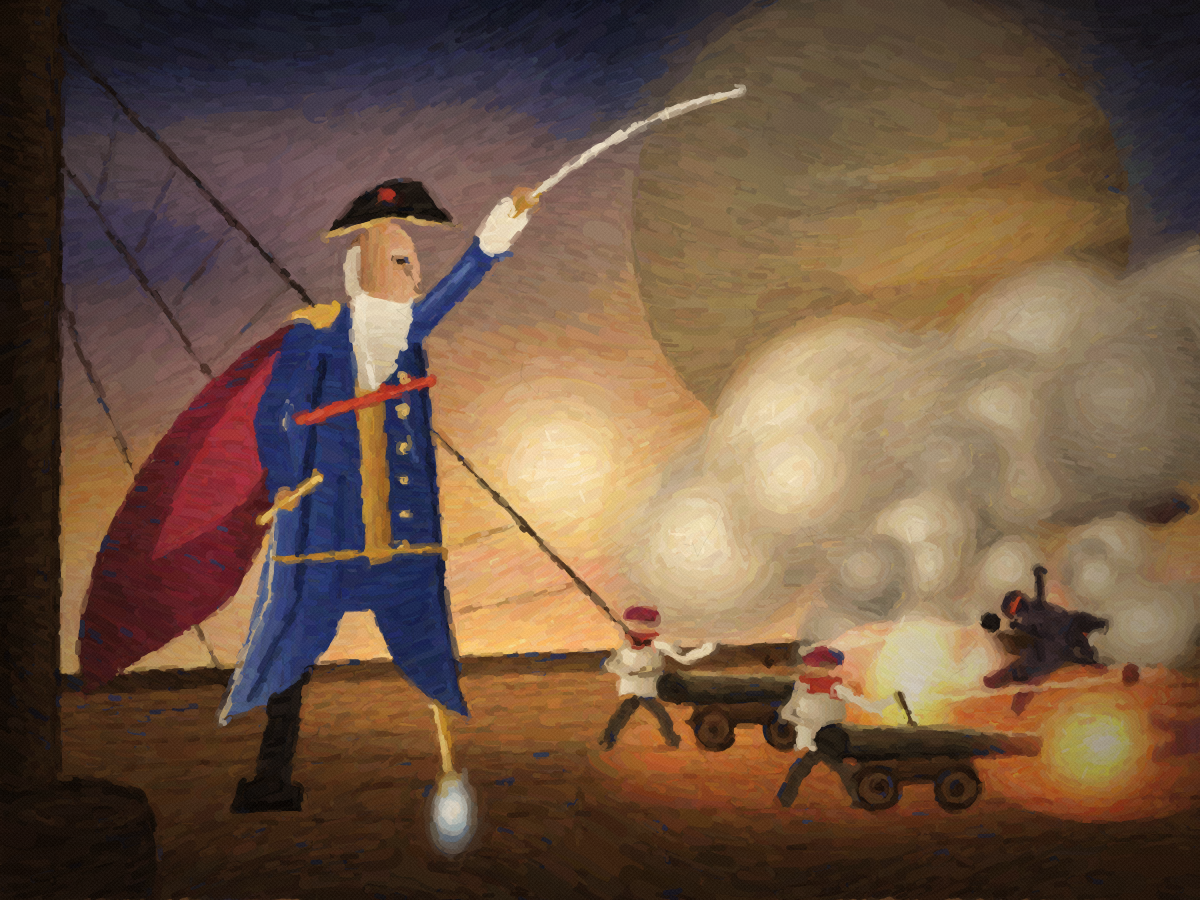
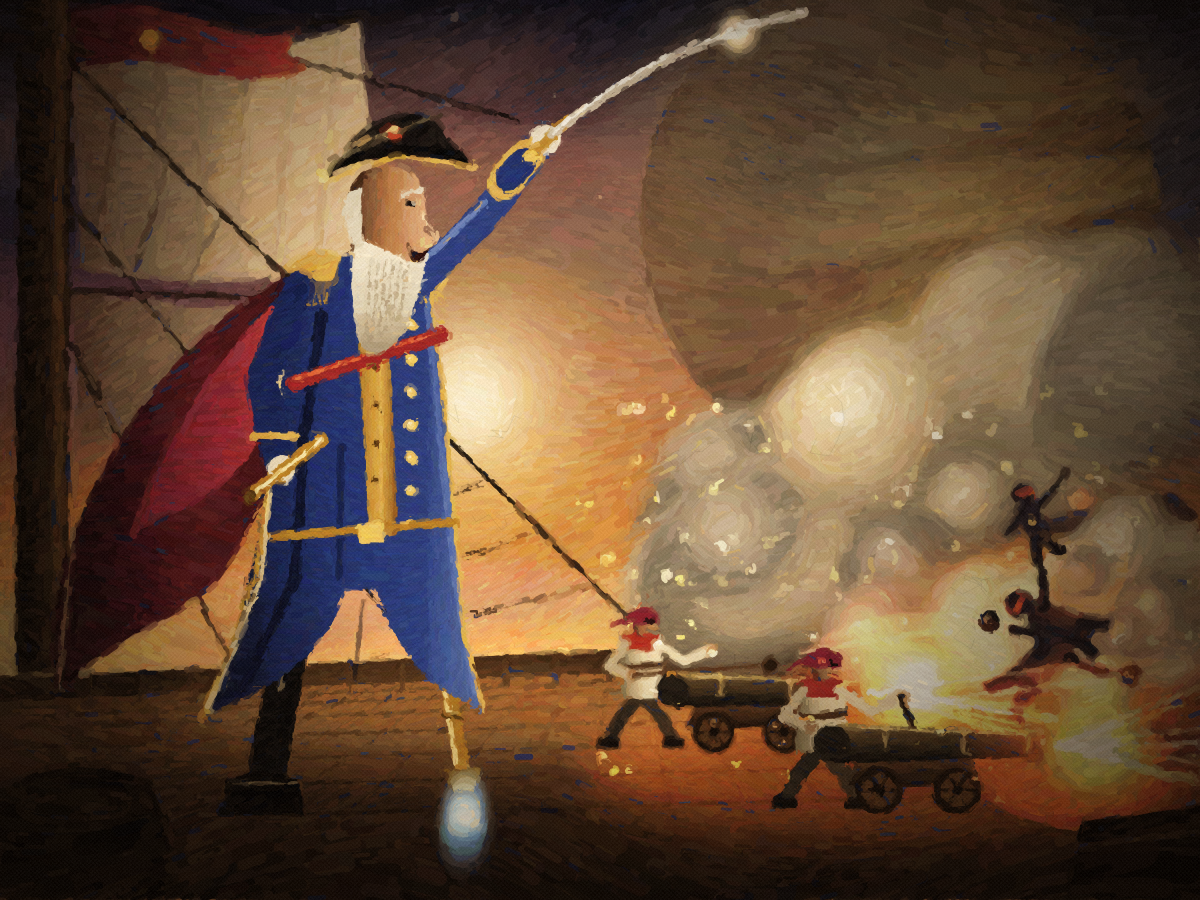
Amiral Remords painting: two refinement passes
Backlit halo, sails, torn flag, embers, darker edges; more detail on the
face, braid, epaulettes and gunners; fine strokes that follow the forms
on the focal areas; a gentle contrast curve in the varnish.

Claude-Session: https://claude.ai/code/session_01TggY2MHq5CRikNgJFkTdsd

diff --git a/games/battle-planet-zenzizenzix/docs/art/amiral-remords.html b/games/battle-planet-zenzizenzix/docs/art/amiral-remords.html
@@ -74,121 +74,161 @@ function scene() {
   const cv = document.createElement('canvas'); cv.width = W; cv.height = H; const g = cv.getContext('2d');
   const lin = (x0, y0, x1, y1, stops) => { const gr = g.createLinearGradient(x0, y0, x1, y1); stops.forEach(([o, c]) => gr.addColorStop(o, c)); return gr; };
   const rad = (x, y, r0, r1, stops) => { const gr = g.createRadialGradient(x, y, r0, x, y, r1); stops.forEach(([o, c]) => gr.addColorStop(o, c)); return gr; };
-  const path = (d) => new Path2D(d);
-  const fill = (d, f) => { g.fillStyle = f; g.fill(typeof d === 'string' ? path(d) : d); };
+  const fill = (d, f) => { g.fillStyle = f; g.fill(typeof d === 'string' ? new Path2D(d) : d); };
   const C = (x, y, r, f) => { g.beginPath(); g.arc(x, y, r, 0, Math.PI * 2); g.fillStyle = f; g.fill(); };
   const E = (x, y, rx, ry, f, rot = 0) => { g.beginPath(); g.ellipse(x, y, rx, ry, rot, 0, Math.PI * 2); g.fillStyle = f; g.fill(); };
   const line = (pts, w, col) => { g.beginPath(); pts.forEach(([x, y], i) => i ? g.lineTo(x, y) : g.moveTo(x, y)); g.strokeStyle = col; g.lineWidth = w; g.lineCap = 'round'; g.lineJoin = 'round'; g.stroke(); };
+  const curve = (x0, y0, cx, cy, x1, y1, w, col) => { g.beginPath(); g.moveTo(x0, y0); g.quadraticCurveTo(cx, cy, x1, y1); g.strokeStyle = col; g.lineWidth = w; g.lineCap = 'round'; g.stroke(); };
   const soft = (px, fn) => { g.save(); g.filter = `blur(${px}px)`; fn(); g.restore(); };
+  const glow = fn => { g.save(); g.globalCompositeOperation = 'lighter'; fn(); g.restore(); };
 
-  // --- sky
-  g.fillStyle = lin(0, 0, 0, 620, [[0, '#141b36'], [.3, '#2e3560'], [.58, '#7a5a68'], [.8, '#d29452'], [1, '#f0c47e']]); g.fillRect(0, 0, W, H);
-  soft(30, () => { for (let i = 0; i < 9; i++) E(rnd() * W, 120 + rnd() * 300, 220 + rnd() * 200, 30 + rnd() * 30, `rgba(${120 + rnd() * 60 | 0},${90 + rnd() * 40 | 0},${110 + rnd() * 30 | 0},.35)`, (rnd() - .5) * .3); });
-  // --- the giant planet, soft and hazy
-  soft(4, () => {
-    g.save(); g.beginPath(); g.arc(880, 230, 250, 0, Math.PI * 2); g.clip();
-    g.fillStyle = rad(820, 170, 20, 280, [[0, '#f4ddaa'], [.45, '#d9a660'], [.8, '#9a5a2a'], [1, '#4a2e1c']]); g.fillRect(600, -40, 560, 540);
-    [[80, 16, '#a8642a'], [140, 26, '#c8933a'], [196, 12, '#7a4422'], [250, 34, '#d9a85a'], [306, 18, '#6a3a1e'], [356, 28, '#a8703a'], [410, 18, '#7a4a28']].forEach(([y, h, c]) => { g.globalAlpha = .5; E(880, y, 300, h, c, -.14); });
-    g.globalAlpha = .75; E(800, 300, 52, 22, '#8a3a22', -.14); g.globalAlpha = 1;
-    g.fillStyle = rad(1040, 330, 80, 320, [[0, 'rgba(20,27,54,0)'], [1, 'rgba(20,27,54,.8)']]); g.fillRect(600, -40, 560, 540); g.restore();
+  // --- sky: deep night above, a burning horizon
+  g.fillStyle = lin(0, 0, 0, 640, [[0, '#0c1028'], [.28, '#232a52'], [.55, '#6a4660'], [.78, '#c87a42'], [1, '#f0b86a']]); g.fillRect(0, 0, W, H);
+  soft(26, () => { for (let i = 0; i < 12; i++) E(rnd() * W, 90 + rnd() * 330, 200 + rnd() * 240, 24 + rnd() * 30, `rgba(${110 + rnd() * 70 | 0},${70 + rnd() * 50 | 0},${90 + rnd() * 40 | 0},.4)`, (rnd() - .5) * .25); });
+  for (let i = 0; i < 90; i++) C(rnd() * W, rnd() * 200, rnd() * 1.4 + .3, `rgba(239,230,210,${.25 + rnd() * .5})`);
+  // --- the giant planet
+  soft(3, () => {
+    g.save(); g.beginPath(); g.arc(900, 220, 260, 0, Math.PI * 2); g.clip();
+    g.fillStyle = rad(820, 150, 20, 300, [[0, '#f6e0ae'], [.4, '#dca862'], [.78, '#9a562a'], [1, '#3a2216']]); g.fillRect(600, -60, 600, 560);
+    [[60, 14, '#a8642a'], [112, 26, '#c8933a'], [160, 10, '#6a3a1e'], [210, 34, '#e0b066'], [262, 16, '#6a3a1e'], [312, 30, '#a8703a'], [366, 14, '#7a4a28'], [410, 24, '#9a5a2e']].forEach(([y, h, c]) => { g.globalAlpha = .55; E(900, y, 320, h, c, -.14); g.globalAlpha = .25; E(900, y + h * .7, 320, h * .3, '#f6e0ae', -.14); });
+    g.globalAlpha = .8; E(812, 290, 56, 22, '#8a3020', -.14); E(806, 286, 30, 10, '#c8603a', -.14); g.globalAlpha = 1;
+    g.fillStyle = rad(1080, 320, 80, 340, [[0, 'rgba(12,16,40,0)'], [1, 'rgba(12,16,40,.85)']]); g.fillRect(600, -60, 600, 560); g.restore();
   });
-  soft(40, () => { g.globalAlpha = .35; C(880, 230, 270, '#e8c27a'); g.globalAlpha = 1; });
-  // --- the star, low behind the smoke: the main light
-  soft(10, () => { g.fillStyle = rad(560, 470, 0, 420, [[0, 'rgba(255,248,222,1)'], [.08, 'rgba(255,236,190,.95)'], [.3, 'rgba(236,180,100,.5)'], [1, 'rgba(236,180,100,0)']]); g.fillRect(100, 60, 920, 820); });
+  soft(36, () => { g.globalAlpha = .3; C(900, 220, 290, '#e8c27a'); g.globalAlpha = 1; });
+  // --- the star, right behind the Admiral: a halo
+  soft(8, () => { g.fillStyle = rad(470, 400, 0, 460, [[0, 'rgba(255,250,230,1)'], [.06, 'rgba(255,242,205,1)'], [.22, 'rgba(244,196,120,.7)'], [.55, 'rgba(210,130,70,.25)'], [1, 'rgba(210,130,70,0)']]); g.fillRect(0, 0, 940, 860); });
   // --- cloud sea far below
-  soft(8, () => { for (let i = 0; i < 46; i++) E(rnd() * W, 580 + rnd() * 70, 70 + rnd() * 140, 16 + rnd() * 22, `rgba(${215 + rnd() * 30 | 0},${160 + rnd() * 40 | 0},${110 + rnd() * 30 | 0},.6)`); });
-  // --- the enemy flagship, far off, through haze
-  soft(2, () => { fill('M960 520 L1170 486 L1196 506 L1166 526 Z', '#3a2228'); for (let i = 0; i < 7; i++) C(990 + i * 26, 516 - i * 3.5, 2.4, '#e0502a'); });
+  soft(7, () => { for (let i = 0; i < 50; i++) E(rnd() * W, 584 + rnd() * 70, 70 + rnd() * 150, 14 + rnd() * 22, `rgba(${220 + rnd() * 30 | 0},${150 + rnd() * 50 | 0},${100 + rnd() * 30 | 0},.6)`); });
+  // --- the enemy flagship and a second ship, far off
+  soft(2, () => { fill('M940 532 L1170 494 L1198 514 L1166 536 Z', '#3a2026'); for (let i = 0; i < 8; i++) C(968 + i * 25, 527 - i * 3.6, 2.4, '#ff5a2a');
+    fill('M1060 568 L1150 556 L1160 566 L1148 574 Z', '#4a2a2e'); });
 
-  // --- deck, with warm light from the flashes
-  fill('M0 690 L1200 640 L1200 900 L0 900 Z', lin(0, 640, 0, 900, [[0, '#8a5a32'], [.4, '#6a4224'], [1, '#2e1c10']]));
-  for (let i = 0; i < 12; i++) { const y = 700 + i * i * 2.4 + i * 6; line([[0, y + 8], [W, y - 44 + i * 3]], 2, 'rgba(36,20,10,.55)'); }
-  for (let i = 0; i < 16; i++) { const x = -200 + i * 110; line([[600 + (x - 600) * .25, 655], [x, 900]], 1.5, 'rgba(36,20,10,.35)'); }
-  fill('M0 676 L1200 624 L1200 646 L0 698 Z', '#3a2414');
-  // light pools on the deck
-  g.globalCompositeOperation = 'lighter';
-  soft(20, () => { E(860, 760, 260, 60, 'rgba(200,90,30,.45)'); E(560, 700, 300, 50, 'rgba(230,170,90,.25)'); });
-  g.globalCompositeOperation = 'source-over';
+  // --- sails, backlit, upper left
+  soft(1.5, () => {
+    fill('M70 30 Q300 60 360 20 L380 250 Q260 300 80 270 Z', lin(70, 0, 380, 0, [[0, 'rgba(120,90,70,.9)'], [.6, 'rgba(236,206,160,.9)'], [1, 'rgba(250,226,180,.85)']]));
+    fill('M70 290 Q240 320 300 300 L310 420 Q200 452 80 440 Z', lin(70, 0, 310, 0, [[0, 'rgba(110,80,60,.9)'], [1, 'rgba(240,210,160,.85)']]));
+    line([[70, 30], [380, 20]], 6, '#2a1a0e'); line([[70, 290], [310, 300]], 5, '#2a1a0e');
+    for (let i = 0; i < 6; i++) line([[110 + i * 45, 40], [116 + i * 40, 262]], 1.5, 'rgba(90,60,40,.35)');
+  });
+  // --- mast, rigging and a torn flag
+  fill('M18 0 L72 0 L66 900 L14 900 Z', lin(14, 0, 72, 0, [[0, '#0c0804'], [.6, '#3a2414'], [.8, '#6a4426'], [1, '#1a1008']]));
+  line([[68, 60], [660, 650]], 4, 'rgba(22,14,6,.9)'); line([[68, 200], [440, 686]], 3, 'rgba(22,14,6,.85)'); line([[68, 340], [250, 700]], 3, 'rgba(22,14,6,.8)'); line([[68, 0], [520, 120]], 3, 'rgba(22,14,6,.8)');
+  for (let i = 0; i < 10; i++) { const t = .08 + i * .09; line([[68 + 592 * t, 60 + 590 * t], [68 + 372 * t, 200 + 486 * t]], 1.6, 'rgba(22,14,6,.65)'); }
+  soft(.8, () => { fill('M72 8 Q140 -4 200 20 Q260 44 300 30 L286 52 L306 70 Q250 88 196 70 Q140 52 72 70 Z', lin(72, 0, 300, 0, [[0, '#4a1018'], [.5, '#8a2a32'], [1, '#c8503a']])); C(150, 40, 10, '#d9a64a'); });
 
-  // --- cannon smoke: soft billows, backlit
-  const billow = (x, y, r, lit) => { g.fillStyle = rad(x - r * .35, y - r * .4, r * .05, r * 1.05, [[0, lit ? 'rgba(252,238,206,1)' : 'rgba(214,200,176,1)'], [.55, lit ? 'rgba(206,186,150,.95)' : 'rgba(150,138,122,.9)'], [1, 'rgba(120,104,90,0)']]); g.beginPath(); g.arc(x, y, r, 0, Math.PI * 2); g.fill(); };
-  soft(10, () => { for (let i = 0; i < 40; i++) { const t = rnd(); billow(700 + t * 520 + (rnd() - .5) * 80, 560 - t * 170 + (rnd() - .5) * 120, 60 + rnd() * 90, rnd() > .35); } });
-  soft(4, () => { for (let i = 0; i < 18; i++) billow(860 + rnd() * 340, 560 + rnd() * 120, 30 + rnd() * 50, rnd() > .3); });
+  // --- deck, rail, light pools
+  fill('M0 690 L1200 640 L1200 900 L0 900 Z', lin(0, 640, 0, 900, [[0, '#7a4e2a'], [.35, '#5a3820'], [1, '#1e120a']]));
+  for (let i = 0; i < 13; i++) { const y = 700 + i * i * 2.2 + i * 6; line([[0, y + 8], [W, y - 44 + i * 3]], 2, 'rgba(30,18,8,.55)'); }
+  for (let i = 0; i < 18; i++) { const x = -300 + i * 110; line([[620 + (x - 620) * .25, 652], [x, 900]], 1.5, 'rgba(30,18,8,.35)'); }
+  fill('M0 676 L1200 624 L1200 648 L0 700 Z', '#2e1c10'); line([[0, 676], [1200, 624]], 2.5, 'rgba(250,210,140,.6)');
+  for (let i = 0; i < 22; i++) { const x = 90 + i * 52; line([[x, 678 - x * .043], [x, 700 - x * .043 + 6]], 6, '#3a2414'); }
+  glow(() => soft(24, () => { E(880, 770, 300, 70, 'rgba(210,90,30,.5)'); E(470, 712, 320, 50, 'rgba(240,180,100,.3)'); }));
 
-  // --- Villen-Hüüs's soldiers, blown back in the smoke
-  const goon = (x, y, rot, s) => { g.save(); g.translate(x, y); g.rotate(rot); g.scale(s, s);
-    fill('M-14 -40 L-26 0 L-12 0 L0 -26 L12 0 L26 0 L14 -40 Z', '#2a2228'); fill('M-18 -86 Q0 -96 18 -86 L16 -38 L-16 -38 Z', '#3a3040'); C(2, -102, 15, '#2a2230');
-    g.fillStyle = '#ff5a2a'; g.fillRect(-8, -106, 22, 6); line([[14, -76], [46, -92]], 9, '#2a2228'); line([[-14, -76], [-42, -58]], 9, '#2a2228'); g.restore(); };
-  soft(1.5, () => { goon(1000, 700, .8, 1.05); goon(1100, 640, -1.2, .9); goon(1150, 740, 1.5, 1); });
-  // cannonball streaks
-  [[800, 650, 990, 622], [930, 700, 1130, 676]].forEach(([a, b, c, d]) => { line([[a, b], [c, d]], 5, 'rgba(255,236,190,.5)'); C(c, d, 10, '#1e1a18'); });
+  // --- cannon smoke
+  const billow = (x, y, r, lit) => { g.fillStyle = rad(x - r * .35, y - r * .4, r * .05, r * 1.05, [[0, lit ? 'rgba(254,240,210,1)' : 'rgba(206,190,166,1)'], [.55, lit ? 'rgba(210,186,146,.95)' : 'rgba(136,124,110,.9)'], [1, 'rgba(110,94,80,0)']]); g.beginPath(); g.arc(x, y, r, 0, Math.PI * 2); g.fill(); };
+  soft(9, () => { for (let i = 0; i < 46; i++) { const t = rnd(); billow(700 + t * 520 + (rnd() - .5) * 80, 570 - t * 190 + (rnd() - .5) * 130, 60 + rnd() * 95, rnd() > .4); } });
+  soft(4, () => { for (let i = 0; i < 22; i++) billow(860 + rnd() * 340, 560 + rnd() * 130, 30 + rnd() * 50, rnd() > .35); });
+  glow(() => soft(16, () => { E(1000, 640, 180, 90, 'rgba(230,110,40,.35)'); }));
 
-  // --- cannons and gunners (mid-ground, right of the admiral)
+  // --- Villen-Hüüs's soldiers, blown back
+  const goon = (x, y, rot, s, lit) => { g.save(); g.translate(x, y); g.rotate(rot); g.scale(s, s);
+    fill('M-14 -40 L-26 0 L-12 0 L0 -26 L12 0 L26 0 L14 -40 Z', '#241c22'); fill('M-18 -86 Q0 -96 18 -86 L16 -38 L-16 -38 Z', lit ? lin(-18, 0, 18, 0, [[0, '#2a2230'], [1, '#8a4a3a']]) : '#342a3a'); C(2, -102, 15, '#241c28');
+    line([[14, -76], [46, -92]], 9, '#241c22'); line([[-14, -76], [-42, -58]], 9, '#241c22'); line([[46, -92], [70, -110]], 5, '#151015');
+    g.fillStyle = '#ff6a3a'; g.fillRect(-8, -106, 22, 6); g.restore(); };
+  soft(1.4, () => { goon(1000, 704, .8, 1.05, 1); goon(1104, 640, -1.2, .9, 1); goon(1156, 748, 1.5, 1); goon(1050, 560, -.4, .7); });
+  glow(() => { [[1006, 616], [1150, 600], [1106, 742], [1080, 500]].forEach(([x, y]) => soft(4, () => C(x, y, 8, 'rgba(255,90,40,.7)'))); });
+  // cannonballs
+  [[800, 652, 990, 622], [930, 702, 1130, 676]].forEach(([a, b, c, d]) => { line([[a, b], [c, d]], 5, 'rgba(255,236,190,.5)'); C(c, d, 10, '#1e1a18'); C(c - 3, d - 3, 3, 'rgba(255,220,160,.6)'); });
+
+  // --- cannons and gunners, lit by their own flashes
   const cannon = (x, y, s) => { g.save(); g.translate(x, y); g.scale(s, s);
-    fill('M-74 32 L46 32 L36 0 L-62 0 Z', lin(0, 0, 0, 32, [[0, '#6a4426'], [1, '#2e1c10']]));
-    [[-46, 36], [24, 36]].forEach(([cx, cy]) => { C(cx, cy, 21, '#2e1c10'); C(cx, cy, 15, '#5a3a22'); C(cx, cy, 6, '#2e1c10'); });
-    fill('M-84 -24 Q-90 -6 -84 12 L100 6 L100 -14 Z', lin(0, -24, 0, 12, [[0, '#b0905a'], [.25, '#5a4a32'], [1, '#14100c']]));
-    C(-88, -6, 16, '#2a2218'); line([[-66, -20], [96, -13]], 2.5, 'rgba(246,220,150,.7)');
-    g.globalCompositeOperation = 'lighter';
-    g.fillStyle = rad(150, -4, 0, 120, [[0, 'rgba(255,250,220,1)'], [.18, 'rgba(250,200,90,.95)'], [.5, 'rgba(210,70,30,.6)'], [1, 'rgba(200,64,42,0)']]); g.beginPath(); g.ellipse(160, -4, 130, 70, 0, 0, Math.PI * 2); g.fill();
-    g.globalCompositeOperation = 'source-over'; g.restore(); };
-  const gunner = (x, y, s, pose) => { g.save(); g.translate(x, y); g.scale(s, s);
-    line([[0, -52], [-22, -24], [-34, 0]], 15, '#3a3024'); line([[0, -52], [24, -26], [36, 0]], 15, '#4a3c2c');
-    fill('M-20 -116 Q2 -122 22 -116 L26 -50 Q0 -44 -24 -50 Z', lin(-20, 0, 26, 0, [[0, '#f0e4c8'], [1, '#9a8a6a']]));
-    fill('M-20 -116 Q2 -122 22 -116 L16 -100 L-14 -100 Z', '#a8382a');
-    line([[18, -106], [48, -88], [76, -100]], 11, '#e6d8b8'); line([[-16, -106], [-34, -82], [-8, -72]], 11, '#bfae8e');
-    C(4, -132, 15, '#c08a62'); fill('M-16 -138 Q2 -152 20 -140 L20 -128 L-18 -128 Z', '#8a2a3a'); E(14, -130, 3, 2, '#2a1a10');
-    if (pose === 'linstock') { line([[76, -100], [104, -40]], 4.5, '#3a2414'); g.globalCompositeOperation = 'lighter'; C(106, -38, 8, 'rgba(255,170,80,.9)'); g.globalCompositeOperation = 'source-over'; }
-    else { line([[-8, -72], [140, -84]], 5, '#6a4426'); C(142, -84, 7, '#3a2414'); }
+    fill('M-74 32 L46 32 L36 0 L-62 0 Z', lin(0, 0, 0, 32, [[0, '#7a5030'], [1, '#2e1c10']]));
+    [[-46, 36], [24, 36]].forEach(([cx, cy]) => { C(cx, cy, 21, '#2a1a0e'); C(cx, cy, 15, '#6a4426'); for (let k = 0; k < 6; k++) { const a = k * Math.PI / 3; line([[cx, cy], [cx + Math.cos(a) * 14, cy + Math.sin(a) * 14]], 2.5, '#2a1a0e'); } C(cx, cy, 5, '#1a100a'); });
+    fill('M-84 -24 Q-90 -6 -84 12 L100 6 L100 -14 Z', lin(0, -24, 0, 12, [[0, '#d0aa66'], [.22, '#6a5434'], [1, '#14100c']]));
+    [[-40, -22, 10], [30, -17, 9], [86, -14, 8]].forEach(([bx, by, bh]) => line([[bx, by], [bx, by + bh * 2]], 4, 'rgba(250,210,130,.6)'));
+    C(-88, -6, 16, '#2a2218'); line([[-66, -20], [96, -13]], 2.5, 'rgba(250,224,150,.75)');
+    glow(() => { g.fillStyle = rad(150, -4, 0, 130, [[0, 'rgba(255,252,230,1)'], [.15, 'rgba(255,214,110,1)'], [.45, 'rgba(220,80,30,.7)'], [1, 'rgba(200,64,42,0)']]); g.beginPath(); g.ellipse(170, -4, 150, 80, 0, 0, Math.PI * 2); g.fill();
+      for (let k = 0; k < 9; k++) { const a = (rnd() - .5) * 1.2; line([[110, -4], [110 + Math.cos(a) * (120 + rnd() * 80), -4 + Math.sin(a) * (60 + rnd() * 50)]], 2, 'rgba(255,220,140,.7)'); } });
     g.restore(); };
-  soft(1, () => { gunner(640, 740, .92, 'rod'); cannon(760, 694, 1.0); });
-  soft(.5, () => { gunner(820, 800, 1.05, 'linstock'); cannon(930, 748, 1.12); });
+  const gunner = (x, y, s, pose) => { g.save(); g.translate(x, y); g.scale(s, s);
+    line([[0, -52], [-22, -24], [-34, 0]], 15, '#3a3024'); line([[0, -52], [24, -26], [36, 0]], 15, '#4a3c2c'); fill('M-44 -4 L-22 -4 L-22 6 L-46 6 Z', '#1a120c'); fill('M26 -4 L48 -4 L48 6 L24 6 Z', '#1a120c');
+    fill('M-20 -116 Q2 -122 22 -116 L26 -50 Q0 -44 -24 -50 Z', lin(-20, 0, 26, 0, [[0, '#8a7a5a'], [.5, '#e6d6b2'], [1, '#fff0cc']]));
+    line([[-18, -80], [22, -84]], 7, '#5a3a22');
+    fill('M-20 -116 Q2 -122 22 -116 L16 -100 L-14 -100 Z', '#b03a2a');
+    line([[18, -106], [48, -88], [76, -100]], 11, '#f0e0bc'); line([[-16, -106], [-34, -82], [-8, -72]], 11, '#bfae8e'); C(78, -100, 6, '#d09a6a'); C(-8, -72, 6, '#b08058');
+    C(4, -132, 15, lin(-10, 0, 20, 0, [[0, '#7a4a30'], [1, '#e0a878']])); fill('M-16 -138 Q2 -152 20 -140 L20 -128 L-18 -128 Z', '#8a2a3a'); line([[-16, -134], [-30, -126]], 4, '#8a2a3a');
+    E(14, -131, 2.6, 2, '#1a100a'); line([[8, -122], [18, -121]], 2, 'rgba(60,30,20,.7)'); line([[-6, -122], [-2, -118]], 6, 'rgba(60,40,30,.5)');
+    if (pose === 'linstock') { line([[76, -100], [104, -40]], 4.5, '#3a2414'); glow(() => soft(3, () => C(106, -38, 9, 'rgba(255,170,80,1)'))); }
+    else { line([[-8, -72], [140, -84]], 5, '#6a4426'); C(142, -84, 8, '#3a2414'); }
+    g.restore(); };
+  soft(.8, () => { gunner(640, 742, .92, 'rod'); cannon(760, 696, 1.0); });
+  soft(.4, () => { gunner(820, 802, 1.05, 'linstock'); cannon(930, 750, 1.12); });
 
-  // --- mast and rigging framing the left side
-  fill('M0 0 L64 0 L58 900 L0 900 Z', lin(0, 0, 64, 0, [[0, '#140c06'], [.7, '#3a2414'], [1, '#1e1208']]));
-  line([[60, 40], [640, 646]], 4, 'rgba(26,16,8,.85)'); line([[60, 160], [420, 680]], 3, 'rgba(26,16,8,.8)'); line([[60, 300], [230, 700]], 3, 'rgba(26,16,8,.75)');
-  for (let i = 0; i < 9; i++) { const t = .1 + i * .1; line([[60 + 580 * t, 40 + 606 * t], [60 + 360 * t, 160 + 520 * t]], 1.5, 'rgba(26,16,8,.6)'); }
-  fill('M0 800 Q60 760 140 790 Q170 840 150 900 L0 900 Z', '#1a100a'); E(80, 812, 64, 16, '#2e1c10'); E(80, 812, 40, 9, '#1a100a');
-  // --- the Admiral, foreground, lit from behind (rim light) and from the flashes
-  const coatG = lin(250, 0, 470, 0, [[0, '#556aa8'], [.25, '#2a3a7a'], [.7, '#1c2856'], [1, '#2e3a6a']]);
-  // cape flying back to the left
-  fill('M300 318 C220 360 150 430 96 560 C80 610 70 660 84 700 C140 650 190 640 230 600 C270 540 300 460 318 360 Z', lin(90, 0, 320, 0, [[0, '#4a1620'], [.5, '#7a2232'], [1, '#3a1018']]));
-  fill('M302 330 C240 380 186 450 150 560 C190 540 236 520 262 480 Z', '#a8343e');
-  // back leg (boot)
-  line([[318, 560], [292, 670], [270, 790]], 34, '#1a1614'); fill('M240 782 Q270 772 300 784 L304 812 L232 812 Z', '#100c0a');
-  // peg leg: brass rocket, forward
-  line([[372, 560], [430, 655]], 32, '#1c2856'); line([[430, 655], [450, 772]], 13, '#b8862e'); line([[428, 655], [446, 768]], 4, '#f2d58a');
-  fill('M436 772 L466 772 L460 790 L442 790 Z', '#8a6420');
-  g.globalCompositeOperation = 'lighter'; soft(6, () => { g.fillStyle = rad(452, 812, 0, 50, [[0, 'rgba(240,250,255,1)'], [.35, 'rgba(110,180,232,.9)'], [1, 'rgba(60,100,170,0)']]); g.beginPath(); g.ellipse(452, 818, 18, 46, .05, 0, Math.PI * 2); g.fill(); }); g.globalCompositeOperation = 'source-over';
-  // coat with tails flaring
+  // --- foreground: a coil of rope and a powder barrel, almost black
+  fill('M0 790 Q70 748 150 780 Q180 838 160 900 L0 900 Z', '#140c06'); E(84, 806, 66, 16, '#2a1a0e'); E(84, 806, 44, 10, '#140c06'); E(84, 806, 22, 5, '#2a1a0e');
+  fill('M1080 820 L1200 806 L1200 900 L1070 900 Z', '#120a06'); line([[1080, 846], [1200, 832]], 4, 'rgba(200,140,80,.35)');
+
+  // --- the Admiral (scaled up for presence)
+  g.save(); g.translate(330, 812); g.scale(1.1, 1.1); g.translate(-330, -812);
+  const coatG = lin(250, 0, 470, 0, [[0, '#18204a'], [.35, '#2a3a7a'], [.75, '#3a4c90'], [1, '#6a7cb8']]);
+  // cape
+  fill('M300 318 C220 360 150 430 96 560 C80 610 70 660 84 700 C140 650 190 640 230 600 C270 540 300 460 318 360 Z', lin(90, 0, 320, 0, [[0, '#2a0a10'], [.5, '#6a1a28'], [1, '#3a1018']]));
+  fill('M302 330 C240 380 186 450 150 560 C190 540 236 520 262 480 Z', lin(150, 0, 300, 0, [[0, '#7a2232'], [1, '#c8484a']]));
+  line([[96, 560], [84, 700]], 3, 'rgba(255,210,150,.6)');
+  // legs
+  line([[318, 560], [292, 670], [270, 790]], 34, '#14100e'); line([[306, 600], [284, 700]], 4, 'rgba(255,220,160,.45)');
+  fill('M238 782 Q270 770 302 784 L306 814 L230 814 Z', '#0c0806'); line([[240, 786], [300, 786]], 2, 'rgba(255,220,160,.5)');
+  line([[372, 560], [430, 655]], 32, '#1c2856');
+  line([[430, 655], [450, 772]], 14, '#b8862e'); line([[426, 655], [445, 768]], 4, '#f8e09a'); [[436, 690], [442, 724]].forEach(([x, y]) => line([[x - 8, y], [x + 8, y + 2]], 4, '#6a4a18'));
+  fill('M434 772 L468 772 L462 792 L440 792 Z', '#8a6420');
+  glow(() => soft(5, () => { g.fillStyle = rad(452, 816, 0, 56, [[0, 'rgba(245,252,255,1)'], [.3, 'rgba(120,190,240,.95)'], [1, 'rgba(60,100,170,0)']]); g.beginPath(); g.ellipse(452, 824, 20, 54, .05, 0, Math.PI * 2); g.fill(); }));
+  // coat
   fill('M296 316 C330 304 380 300 418 314 C430 380 436 450 442 530 C446 600 452 660 470 720 C430 700 398 690 372 610 L344 610 C322 680 270 700 214 726 C246 650 262 590 272 520 C278 450 284 380 296 316 Z', coatG);
-  // folds and shadow on the coat
-  line([[322, 360], [306, 470], [298, 600], [250, 700]], 9, 'rgba(10,14,40,.55)'); line([[418, 340], [430, 470], [444, 600], [462, 700]], 7, 'rgba(10,14,40,.5)'); line([[340, 480], [338, 600]], 5, 'rgba(10,14,40,.4)'); line([[396, 330], [414, 460]], 4, 'rgba(140,160,220,.35)');
-  // waistcoat and gold
-  fill('M352 318 L380 316 L392 560 L366 566 Z', lin(352, 0, 392, 0, [[0, '#d9a64a'], [1, '#8a5a22']]));
-  for (let i = 0; i < 7; i++) C(404, 344 + i * 34, 4.5, '#ecc66a');
-  line([[300, 420], [430, 380]], 13, '#a8382a'); line([[300, 420], [430, 380]], 3, '#e05a3a');
-  line([[278, 560], [440, 548]], 7, '#b8862e');
-  fill('M290 316 Q312 296 340 308 L330 330 Q308 326 292 334 Z', '#d9a64a'); fill('M396 306 Q422 300 438 318 L428 336 Q412 326 398 328 Z', '#d9a64a');
-  // rim light down the back (the star is behind him)
-  line([[298, 318], [286, 400], [276, 500], [268, 600], [220, 720]], 4, 'rgba(255,226,160,.85)');
-  // left arm, back, spyglass in hand
-  line([[300, 334], [268, 420], [282, 492]], 28, '#24306a'); C(286, 500, 13, '#b88058'); line([[262, 520], [318, 478]], 11, '#b8862e'); line([[262, 520], [318, 478]], 3, '#f2d58a');
-  // right arm raised: sabre to the enemy
-  line([[412, 330], [474, 266], [516, 210]], 28, '#2a3a7a'); line([[400, 330], [470, 264]], 6, 'rgba(120,140,200,.6)');
-  line([[494, 238], [512, 214]], 32, '#efe6d2'); C(526, 200, 14, '#c08a62');
-  line([[516, 214], [544, 186]], 9, '#b8862e');
-  g.beginPath(); g.moveTo(532, 196); g.quadraticCurveTo(640, 110, 740, 92); g.strokeStyle = '#d6d0c4'; g.lineWidth = 7; g.lineCap = 'round'; g.stroke();
-  g.beginPath(); g.moveTo(534, 192); g.quadraticCurveTo(640, 108, 740, 92); g.strokeStyle = '#fffaf0'; g.lineWidth = 2.5; g.stroke();
-  // head in profile: face, nose, long white beard
-  fill('M346 262 Q348 226 380 222 Q412 222 416 258 Q420 276 414 286 L424 296 L414 300 Q408 316 384 320 Q356 318 348 296 Z', lin(346, 0, 424, 0, [[0, '#8a5a3a'], [.5, '#c8906a'], [1, '#e2b08a']]));
-  fill('M360 290 Q384 300 414 302 Q410 340 392 372 Q376 396 360 388 Q348 350 352 300 Z', lin(0, 290, 0, 390, [[0, '#f2ead8'], [1, '#b8ae9a']]));
-  fill('M346 262 Q348 240 362 230 Q356 260 362 300 Q352 300 348 290 Z', 'rgba(60,34,20,.55)'); E(400, 262, 5, 3, '#2a1a10'); line([[408, 270], [420, 292]], 3, 'rgba(90,50,30,.6)'); line([[392, 252], [410, 250]], 3, '#e6dccb');
-  fill('M346 250 Q340 280 352 300 L362 300 Q356 270 360 244 Z', '#cfc6b4'); line([[358, 300], [372, 386]], 3, 'rgba(255,255,255,.6)');
-  // tricorn
-  fill('M326 236 Q350 196 392 192 Q440 194 456 226 Q430 216 392 218 Q352 220 326 236 Z', '#14100c');
-  fill('M340 218 Q372 172 420 182 Q436 196 440 212 Q404 202 340 218 Z', '#1e1814');
-  line([[326, 236], [392, 218], [456, 226]], 3.5, '#e2bc5e'); C(388, 196, 7, '#a8382a');
+  line([[322, 360], [306, 470], [298, 600], [250, 700]], 10, 'rgba(8,10,30,.6)'); line([[418, 340], [430, 470], [444, 600], [462, 700]], 6, 'rgba(160,180,240,.35)'); line([[340, 480], [338, 600]], 6, 'rgba(8,10,30,.45)'); line([[360, 620], [352, 690]], 4, 'rgba(8,10,30,.4)');
+  // gold braid on the coat edges
+  line([[296, 316], [284, 400], [274, 520], [262, 600], [214, 726]], 4, '#c8963a'); line([[418, 314], [432, 420], [442, 530], [452, 650], [470, 720]], 4, '#e0b45a');
+  // waistcoat
+  fill('M352 318 L380 316 L392 560 L366 566 Z', lin(352, 0, 392, 0, [[0, '#a8762a'], [.6, '#e0b45a'], [1, '#8a5a22']]));
+  for (let i = 0; i < 8; i++) { C(404, 340 + i * 30, 5, '#f2cc6a'); C(403, 339 + i * 30, 1.8, '#fff4c8'); }
+  for (let i = 0; i < 6; i++) C(372, 340 + i * 34, 2.5, '#5a3a14');
+  line([[298, 422], [432, 378]], 14, '#a8302a'); line([[298, 418], [432, 374]], 3, '#e86a4a');
+  line([[276, 562], [442, 548]], 8, '#b8862e'); fill('M356 550 L378 548 L380 566 L356 568 Z', '#f2cc6a');
+  // epaulettes with fringe
+  fill('M288 318 Q312 294 342 306 L332 332 Q308 326 290 336 Z', '#e0b45a'); for (let k = 0; k < 8; k++) line([[292 + k * 5, 332 - k * .5], [290 + k * 5, 350]], 2, '#c8963a');
+  fill('M394 304 Q424 296 442 318 L430 338 Q414 326 398 328 Z', '#f2cc6a'); for (let k = 0; k < 7; k++) line([[400 + k * 5, 330], [402 + k * 5, 348]], 2, '#e0b45a');
+  // rim light from the star behind him
+  line([[298, 318], [286, 400], [276, 500], [268, 600], [220, 720]], 4, 'rgba(255,232,170,.9)');
+  // left arm, spyglass
+  line([[300, 334], [268, 420], [282, 492]], 28, '#1e2a5e'); line([[262, 470], [298, 470]], 7, '#e0b45a'); C(286, 500, 13, '#e8dcc4');
+  line([[258, 524], [322, 474]], 12, '#b8862e'); line([[258, 524], [322, 474]], 3, '#fff0b0'); C(258, 524, 7, '#6a4a18');
+  // right arm, sabre raised
+  line([[412, 330], [474, 266], [516, 210]], 28, '#3a4c90'); line([[402, 324], [470, 258]], 5, 'rgba(180,200,250,.55)');
+  line([[488, 240], [508, 216]], 32, '#e0b45a'); line([[492, 236], [506, 220]], 24, '#2a3a7a');
+  C(526, 200, 14, '#efe6d6'); line([[518, 206], [532, 192]], 4, '#bfb6a6');
+  line([[512, 216], [548, 182]], 10, '#c8963a'); C(512, 216, 6, '#f2cc6a');
+  curve(532, 196, 640, 110, 760, 86, 8, '#cfc8bc'); curve(535, 192, 640, 106, 760, 86, 2.5, '#ffffff');
+  glow(() => soft(6, () => C(700, 104, 16, 'rgba(255,240,200,.8)')));
+  // head: profile, mouth open (shouting the order)
+  fill('M346 262 Q348 226 380 222 Q412 222 416 258 Q420 272 416 284 L428 294 L416 300 Q410 316 386 320 Q356 318 348 296 Z', lin(346, 0, 428, 0, [[0, '#6a4028'], [.45, '#b8805a'], [1, '#f0c098']]));
+  fill('M346 262 Q348 240 362 230 Q356 260 362 300 Q352 300 348 290 Z', 'rgba(50,28,16,.6)');
+  line([[396, 250], [414, 247]], 4, '#e6dccb'); E(404, 259, 4.5, 3, '#1a100a'); C(406, 258, 1.4, '#fff8e8');
+  line([[414, 268], [426, 290]], 3, 'rgba(255,220,180,.8)');
+  fill('M402 300 Q414 304 420 300 Q418 312 406 312 Z', '#3a1410');
+  fill('M356 290 Q384 302 402 312 Q414 316 418 304 Q414 344 396 378 Q378 404 360 394 Q346 354 350 300 Z', lin(0, 290, 0, 400, [[0, '#fbf4e4'], [.6, '#d9d0bc'], [1, '#9a907c']]));
+  for (let k = 0; k < 6; k++) line([[366 + k * 7, 310], [362 + k * 6, 386 - k * 4]], 1.5, 'rgba(150,140,120,.6)');
+  fill('M346 250 Q338 280 352 300 L362 300 Q356 270 360 244 Z', '#e6ddcb');
+  // tricorn with gold edge and cockade
+  fill('M322 238 Q348 194 392 190 Q442 192 460 226 Q432 214 392 216 Q350 218 322 238 Z', '#100c0a');
+  fill('M338 218 Q372 168 422 180 Q438 194 442 212 Q404 200 338 218 Z', '#1e1814');
+  line([[322, 238], [392, 216], [460, 226]], 4, '#f0c860'); line([[338, 218], [422, 180]], 2, 'rgba(255,230,170,.6)');
+  C(388, 194, 8, '#b03a2a'); C(388, 194, 3.5, '#f2cc6a');
+  glow(() => line([[322, 238], [350, 206], [392, 190]], 3, 'rgba(255,220,150,.7)'));
+  g.restore();
+
+  // --- embers and sparks in the air
+  glow(() => { for (let i = 0; i < 140; i++) { const x = 560 + rnd() * 640, y = 380 + rnd() * 420, r = .8 + rnd() * 2.6; C(x, y, r, `rgba(255,${150 + rnd() * 90 | 0},${60 + rnd() * 60 | 0},${.5 + rnd() * .5})`); } });
+  // --- drama: darken the edges, keep the light on the Admiral and the guns
+  g.fillStyle = rad(560, 430, 260, 820, [[0, 'rgba(10,6,4,0)'], [1, 'rgba(10,6,4,.6)']]); g.fillRect(0, 0, W, H);
   return g.getImageData(0, 0, W, H);
 }
 
@@ -210,12 +250,13 @@ function paint(src, ctx) {
     if (rnd() < .05) { if (l < .34) { h = .64 + (rnd() - .5) * .05; s = Math.min(Math.max(s, .18), .32); } else if (l > .6) { h = .11 + (rnd() - .5) * .04; s = Math.max(s, .45); l += .02; } }
     return hsl(h, s, l);
   }
-  function layer(R, size, step, len, thresh, alpha, jit) {
+  function layer(R, size, step, len, thresh, alpha, jit, box) {
     // gradient of this reference, for stroke direction
     const lum = i => .3 * R[i] + .59 * R[i + 1] + .11 * R[i + 2];
     const grad = (x, y) => { x = Math.min(W - 3, Math.max(2, x | 0)); y = Math.min(H - 3, Math.max(2, y | 0)); return [lum(idx(x + 2, y)) - lum(idx(x - 2, y)), lum(idx(x, y + 2)) - lum(idx(x, y - 2))]; };
     const cur = thresh ? ctx.getImageData(0, 0, W, H).data : null; const pts = [];
-    for (let y = 0; y < H; y += step) for (let x = 0; x < W; x += step) {
+    const [bx, by, bw, bh] = box || [0, 0, W, H];
+    for (let y = by; y < by + bh; y += step) for (let x = bx; x < bx + bw; x += step) {
       const px = x + (rnd() - .5) * step, py = y + (rnd() - .5) * step;
       if (thresh) { // only where the canvas still differs from the reference (detail goes where it's needed)
         let diff = 0; for (let k = 0; k < 3; k++) { const i = idx(px + (rnd() - .5) * step, py + (rnd() - .5) * step); diff += Math.abs(cur[i] - R[i]) + Math.abs(cur[i + 1] - R[i + 1]) + Math.abs(cur[i + 2] - R[i + 2]); }
@@ -244,6 +285,15 @@ function paint(src, ctx) {
   layer(ref(8), 18, 10, 40, 26, .85, 1.15);
   layer(ref(3.5), 9, 6, 22, 24, .9, 1);
   layer(ref(1.2), 4.5, 3, 11, 30, .95, .8);
+  const R0 = ref(0); [[340, 180, 220, 250], [500, 60, 300, 200], [600, 610, 420, 220], [250, 300, 260, 520]].forEach(b => layer(R0, 2.6, 2, 7, 20, .95, .5, b));
+  function focal(R, boxes) { // a fine brush on the face, the sabre and the guns
+    const save = ctx.getImageData(0, 0, W, H).data; ctx.lineCap = 'round';
+    for (const [bx, by, bw, bh] of boxes) for (let y = by; y < by + bh; y += 2) for (let x = bx; x < bx + bw; x += 2) {
+      const px = x + (rnd() - .5) * 2, py = y + (rnd() - .5) * 2, i = idx(px, py);
+      const diff = Math.abs(save[i] - R[i]) + Math.abs(save[i + 1] - R[i + 1]) + Math.abs(save[i + 2] - R[i + 2]); if (diff < 22) continue;
+      ctx.strokeStyle = colour(R, px, py, .6); ctx.globalAlpha = .9; ctx.lineWidth = 2 + rnd() * 1.5; const a = rnd() * Math.PI, L = 3 + rnd() * 4;
+      ctx.beginPath(); ctx.moveTo(px - Math.cos(a) * L, py - Math.sin(a) * L); ctx.lineTo(px + Math.cos(a) * L, py + Math.sin(a) * L); ctx.stroke(); }
+    ctx.globalAlpha = 1; }
   // impasto highlights on the brightest spots
   for (let i = 0; i < 3500; i++) { const x = rnd() * W, y = rnd() * H, j = idx(x, y); const l = .3 * d[j] + .59 * d[j + 1] + .11 * d[j + 2]; if (l > 222) { ctx.fillStyle = `rgba(255,248,226,${.25 + rnd() * .45})`; ctx.beginPath(); ctx.ellipse(x, y, 3 + rnd() * 5, 1.5, rnd() * Math.PI, 0, Math.PI * 2); ctx.fill(); } }
 }
@@ -254,7 +304,7 @@ function finish(ctx) {
   ctx.globalCompositeOperation = 'source-over';
   const v = ctx.createRadialGradient(W * .45, H * .45, H * .3, W * .5, H * .5, H * .85); v.addColorStop(0, 'rgba(20,12,6,0)'); v.addColorStop(1, 'rgba(20,12,6,.55)'); ctx.fillStyle = v; ctx.fillRect(0, 0, W, H);
   const img = ctx.getImageData(0, 0, W, H), p = img.data;
-  for (let y = 0; y < H; y++) for (let x = 0; x < W; x++) { const i = (y * W + x) * 4; const weave = ((x % 4 < 2) !== (y % 4 < 2) ? 2.5 : -2.5) + (rnd() - .5) * 6; p[i] += weave; p[i + 1] += weave; p[i + 2] += weave; }
+  for (let y = 0; y < H; y++) for (let x = 0; x < W; x++) { const i = (y * W + x) * 4; const weave = ((x % 4 < 2) !== (y % 4 < 2) ? 2.5 : -2.5) + (rnd() - .5) * 6; for (let k = 0; k < 3; k++) { let v = p[i + k] / 255; v = v < .5 ? 2 * v * v * .95 + v * .05 * 2 : 1 - 2 * (1 - v) * (1 - v) * .95 - (1 - v) * .05 * 2; v = .82 * (p[i + k] / 255) + .18 * v; p[i + k] = v * 255 + weave; } }
   ctx.putImageData(img, 0, 0);
   // a few cracks of craquelure, very faint
   ctx.strokeStyle = 'rgba(30,20,10,.08)'; ctx.lineWidth = 1;
